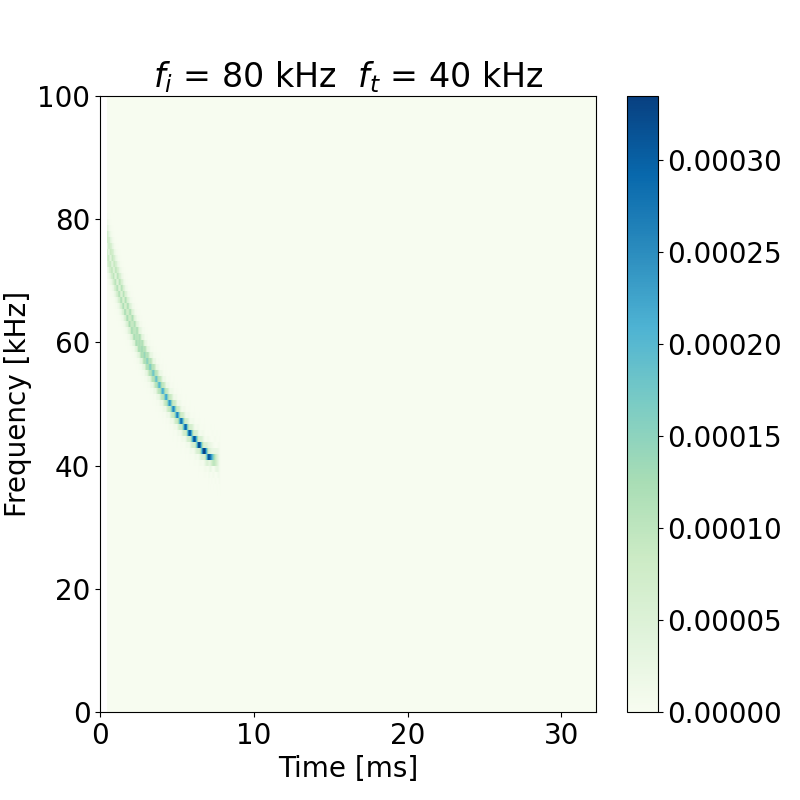
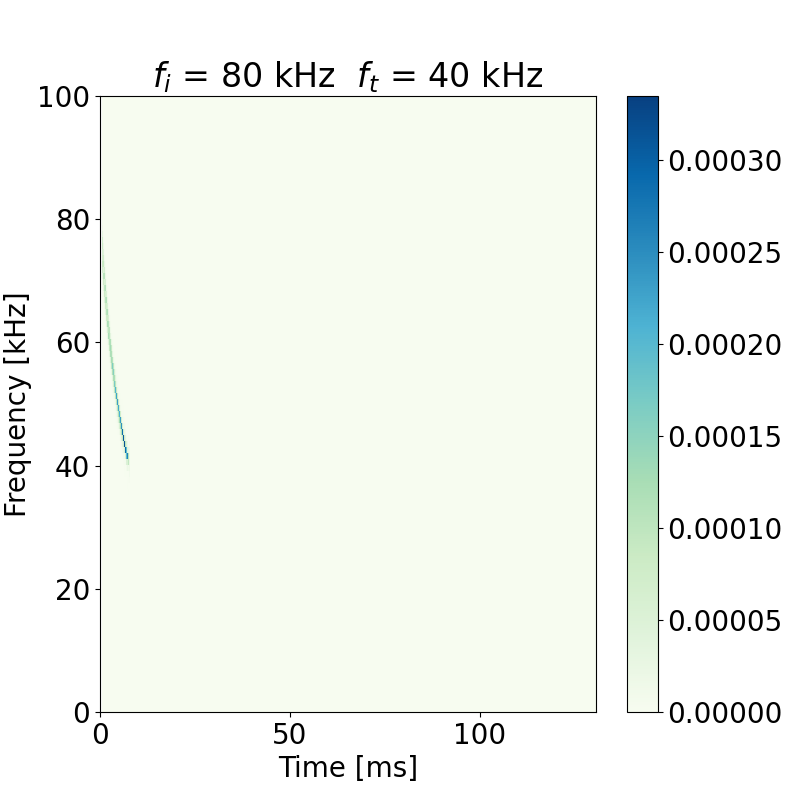
お試し

diff --git a/Simulation/LPM/Robot_LPM＋CF.py b/Simulation/LPM/Robot_LPM＋CF.py
@@ -14,11 +14,12 @@ from scipy.signal import hilbert
 import scipy.signal as signal
 import pathlib
 import math
+import tkinter
 
 def Initialize():
     #sensing_setting
     Fs=1000000 #[Hz]sampling_f
-    FFT_Smpl=2**15 #Number_of_samplings_for_sensing[smpls]
+    FFT_Smpl=2**17 #Number_of_samplings_for_sensing[smpls]
     
     #pulse_design_setting
     Amplitude = 32767. / 2.   #pulse Amplitude: 
@@ -26,12 +27,13 @@ def Initialize():
     Ft = 40000  #: terminal frequency [Hz]
     Duration =0.0075 #LPM_duration [s]
     Duration_CF =0.0025 # CF_duration [s]
+    Duration_space=0.01
     Duration_mimic=0.01#mimicFM_duration[s]
     BatcallConstant=0.005#パラメータ
     draw_tx_spc_flg=True
     draw_Acor_flg=True
     draw_tx_FFT_flg=True   
-    return Fs,FFT_Smpl,Amplitude,Fi,Ft,Duration,Duration_CF,Duration_mimic,BatcallConstant,draw_tx_spc_flg,draw_Acor_flg,draw_tx_FFT_flg
+    return Fs,FFT_Smpl,Amplitude,Fi,Ft,Duration,Duration_CF,Duration_mimic,Duration_space,BatcallConstant,draw_tx_spc_flg,draw_Acor_flg,draw_tx_FFT_flg
     
 #位相を出している？
 def LPM_model_h(fs, fi, ft, dur, t):
@@ -120,19 +122,21 @@ def draw_spectrogram(fig_name, x_data, y_data, z_color, f_init, f_termin, val):
     y_max=100
     f=plt.figure(figsize=(8.0, 8.0))
     plt.pcolormesh(x_data, y_data, z_color, cmap="GnBu")
-    plt.title(r"$ f_i$ = {} kHz  $f_t$ = {} kHz".format(str(int(f_init/1000)), str(int(f_termin/1000))))
+    #plt.title(r"$ f_i$ = {} kHz  $f_t$ = {} kHz".format(str(int(f_init/1000)), str(int(f_termin/1000))))
     plt.xlim([0,max(x_data)])
     plt.ylim([0,y_max])
     plt.xlabel("Time [ms]")
     plt.ylabel("Frequency [kHz]")
     plt.colorbar()
-    plt.savefig(val/'{}_spctrgm{}_{}.png'.format(fig_name, str(int(f_init/1000)), str(int(f_termin/1000))))
+    #plt.savefig(val/'{}_spctrgm{}_{}.png'.format(fig_name, str(int(f_init/1000)), str(int(f_termin/1000))))
     plt.show()
     f.clear()
     plt.close()
+
+
     
 
-def tx_design_view(fs, FFT_smpl, Amp, fi, ft, duration, duration_CF,Duration_mimic,BatcallConstant, draw_tx_spc_flg, draw_Acor_flg, draw_tx_FFT_flg):
+def tx_design_view(fs, FFT_smpl, Amp, fi, ft, duration, duration_CF,Duration_mimic,duration_space,BatcallConstant, draw_tx_spc_flg, draw_Acor_flg, draw_tx_FFT_flg):
 
     Ts=1.0/fs #[s]
     t_start = 0.0
@@ -146,12 +150,26 @@ def tx_design_view(fs, FFT_smpl, Amp, fi, ft, duration, duration_CF,Duration_mim
 
     ###### transmit_phase(txphase_CF)_and_reference_phase(txphase)_calclation ######    
     n_dur=int(duration/Ts)+1
+    n_dur_space=int(duration_space/Ts)+1
     n_dur_CF=int(duration_CF/Ts)+1
     txphase = LPM_model_h(fs, fi, ft, duration, t_array[:n_dur])
     txphase_CF = CF_add(fs, ft, t_array[n_dur:n_dur+n_dur_CF])
+    phase_space=t_array[n_dur+n_dur_CF:n_dur_space]
+    txphase_space=np.zeros(len(phase_space))
+    txphase_2 = LPM_model_h(fs, fi, ft+1000, duration, t_array[n_dur_space:n_dur_space+n_dur])
+    txphase_CF_2 = CF_add(fs, ft+1000, t_array[n_dur+n_dur_space:n_dur_space+n_dur+n_dur_CF])
+    phase_space_2=t_array[n_dur_space+n_dur+n_dur_CF:2*n_dur_space]
+    txphase_space_2=np.zeros(len(phase_space_2))
+
+    
+
     
     ##LPM と　CFの位相を結合
     txphase_CF=np.hstack([txphase,txphase_CF])
+    txphase_CF=np.hstack([txphase_CF,txphase_space])
+    txphase_CF=np.hstack([txphase_CF,txphase_2])
+    txphase_CF=np.hstack([txphase_CF,txphase_CF_2])
+    txphase_CF=np.hstack([txphase_CF,txphase_space_2])
     ###### transmit_wave(txwv_CF)_and_reference_wave(txwv)_calclation######    
     txwv = trans_wv(txphase)
     txwv = zero_filled(txwv, t_array)
@@ -185,10 +203,11 @@ def tx_design_view(fs, FFT_smpl, Amp, fi, ft, duration, duration_CF,Duration_mim
         Acor_env_tx = Xcor_func(t_array, txwv, txwv)
         Acor_env_tx_CF = Xcor_func(t_array, txwv_CF, txwv_CF)
         Acor_env_tx_FM = Xcor_func(t_array, txwv_FM, txwv_FM)
+        Xcor_env_tx=Xcor_func(t_array,txwv, txwv_CF)
         draw_wv("Acor", t_array, Acor_env_tx, min(t_array), max(t_array), min(Acor_env_tx)*1.1, max(Acor_env_tx)*1.1, fi, ft, dataDir)
         draw_wv("Acor_CF", t_array, Acor_env_tx_CF, min(t_array), max(t_array), min(Acor_env_tx_CF)*1.1, max(Acor_env_tx_CF)*1.1, fi, ft, dataDir)
         draw_wv("Acor_FM", t_array, Acor_env_tx_FM, min(t_array), max(t_array), min(Acor_env_tx_FM)*1.1, max(Acor_env_tx_FM)*1.1, fi, ft, dataDir)
-        
+        draw_wv("Xcor", t_array, Xcor_env_tx, min(t_array), max(t_array), min(Xcor_env_tx)*1.1, max(Xcor_env_tx)*1.1, fi, ft, dataDir)
     ##### tx_spectram(FFT)_draw ###############
     ###### transmit_wave("spectrum_tx")_and_reference_wave("spectrum_tx_CF")_draw######    
     if draw_tx_FFT_flg==1:
@@ -204,9 +223,9 @@ def tx_design_view(fs, FFT_smpl, Amp, fi, ft, duration, duration_CF,Duration_mim
     #return t_array, txwv, txwv_CF
 
 def main():
-    Fs,FFT_Smpl,Amplitude,Fi,Ft,Duration,Duration_CF,Duration_mimic,BatcallConstant,draw_tx_spc_flg,draw_Acor_flg,draw_tx_FFT_flg=Initialize()
+    Fs,FFT_Smpl,Amplitude,Fi,Ft,Duration,Duration_CF,Duration_mimic,Duration_space,BatcallConstant,draw_tx_spc_flg,draw_Acor_flg,draw_tx_FFT_flg=Initialize()
     
-    tx_design_view(Fs, FFT_Smpl, Amplitude, Fi, Ft, Duration, Duration_CF,Duration_mimic,BatcallConstant, True, True, True)
+    tx_design_view(Fs, FFT_Smpl, Amplitude, Fi, Ft, Duration, Duration_CF,Duration_mimic,Duration_space,BatcallConstant, True, True, True)
 
 if __name__ == '__main__':
     main()
